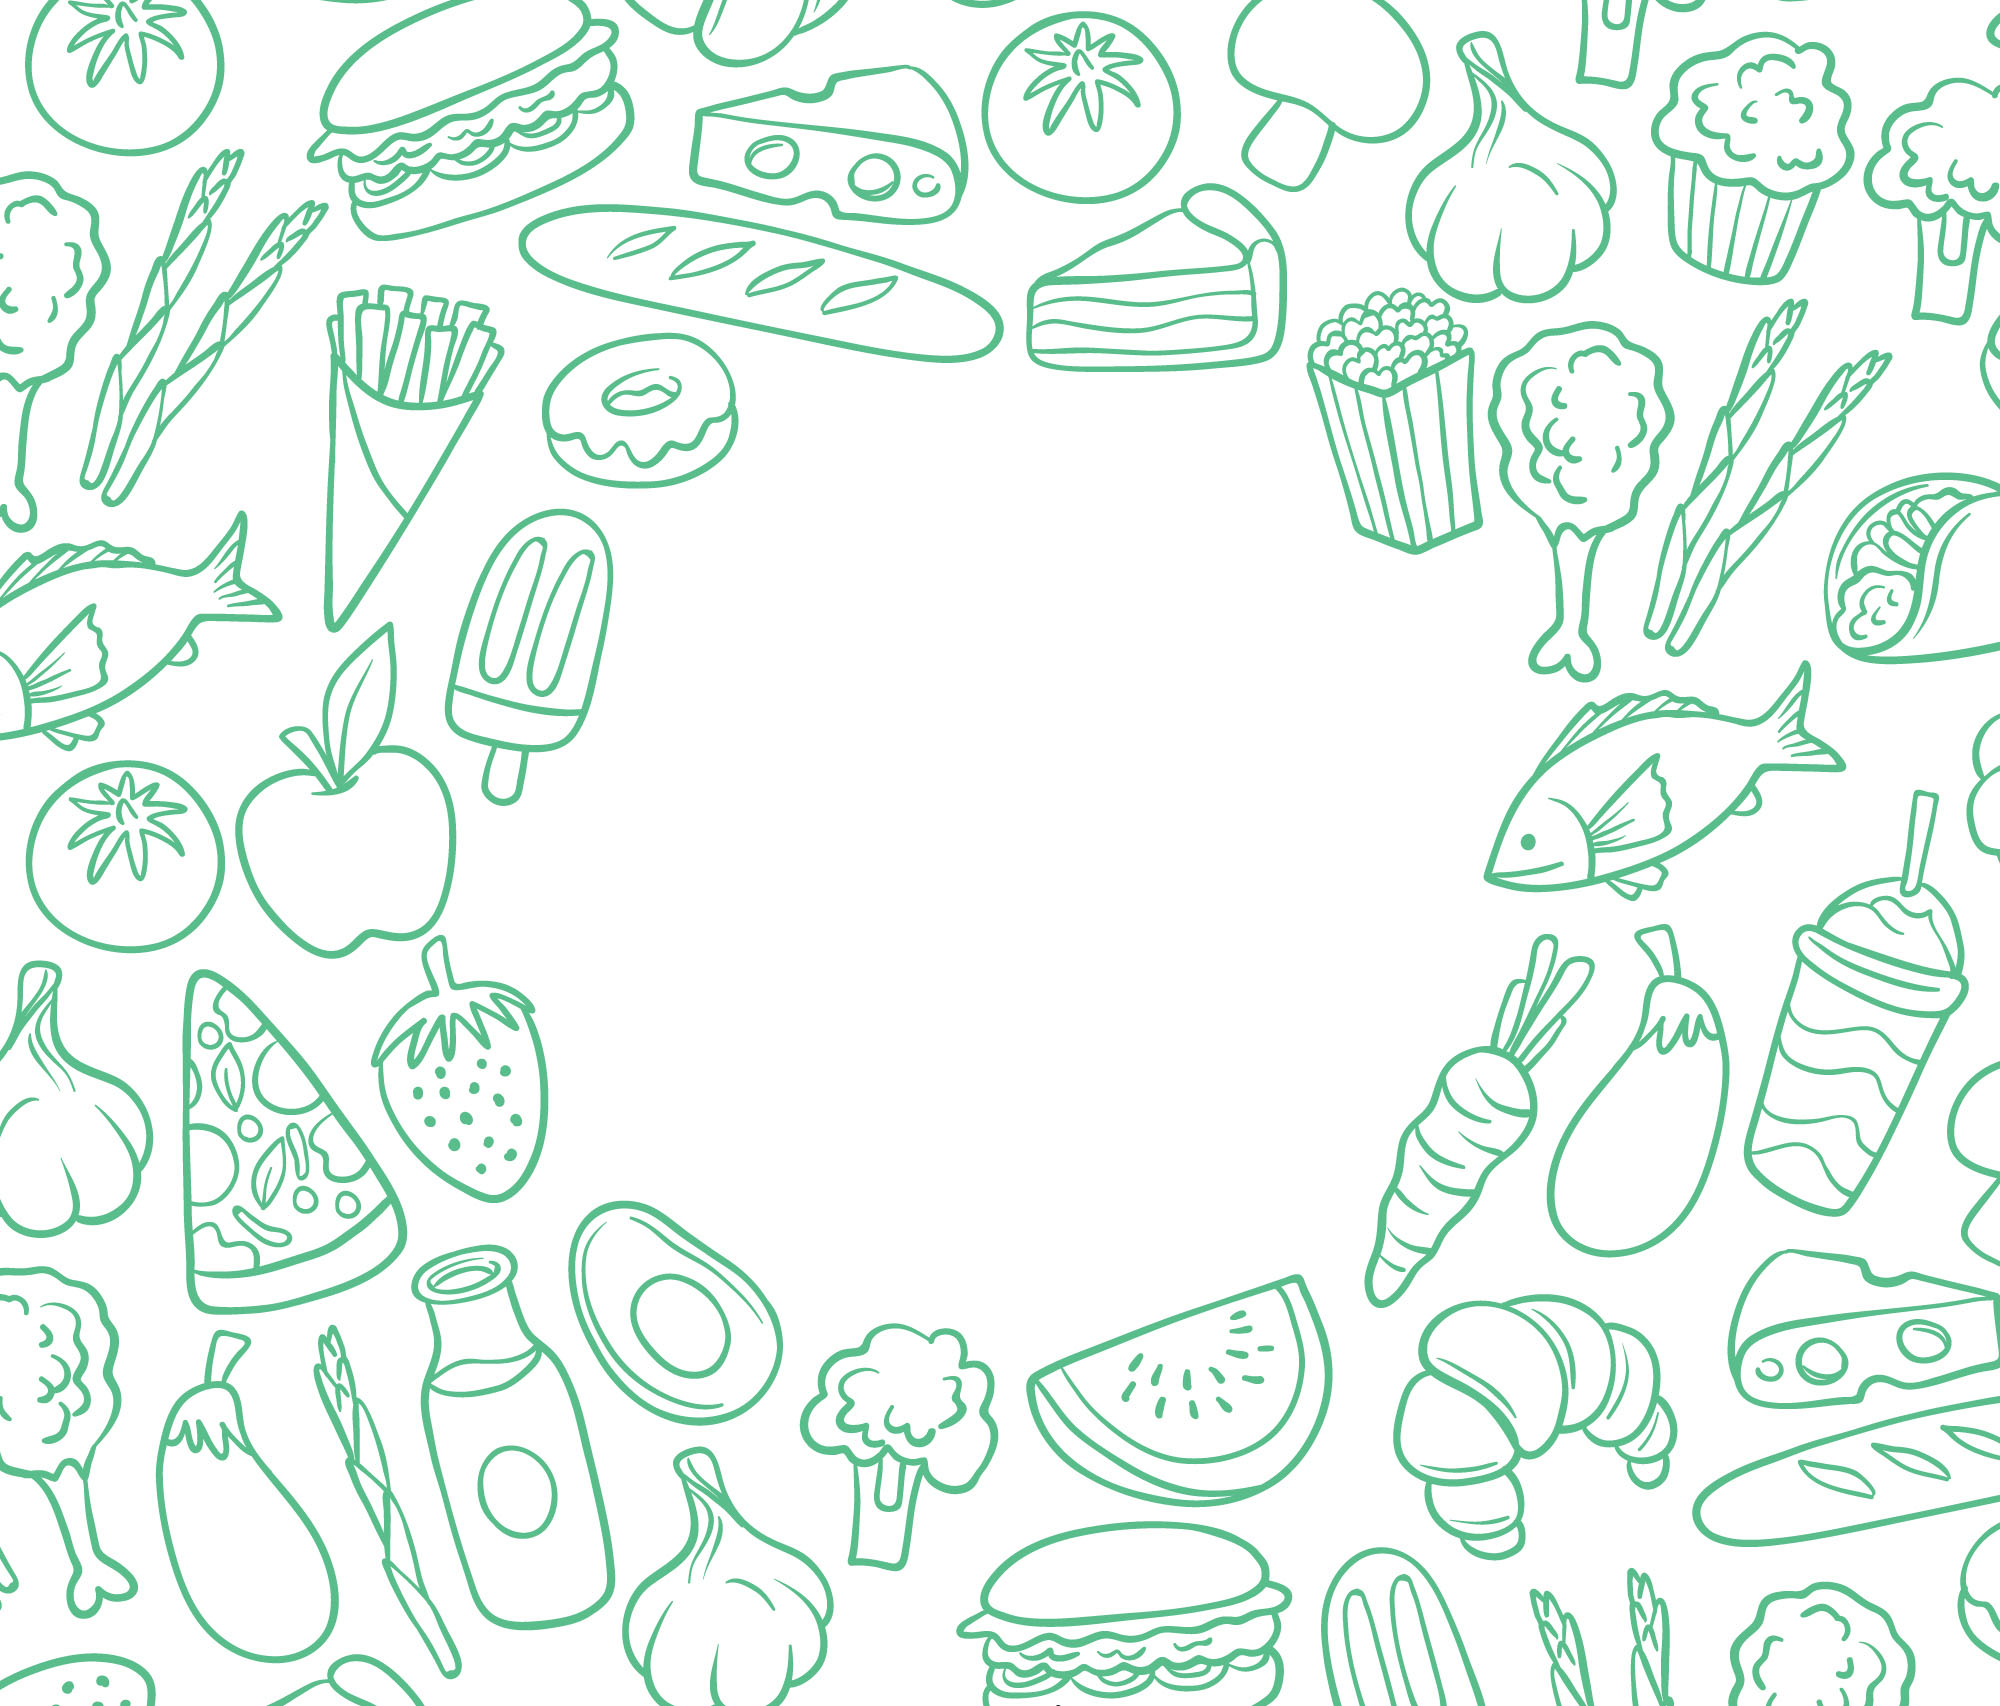
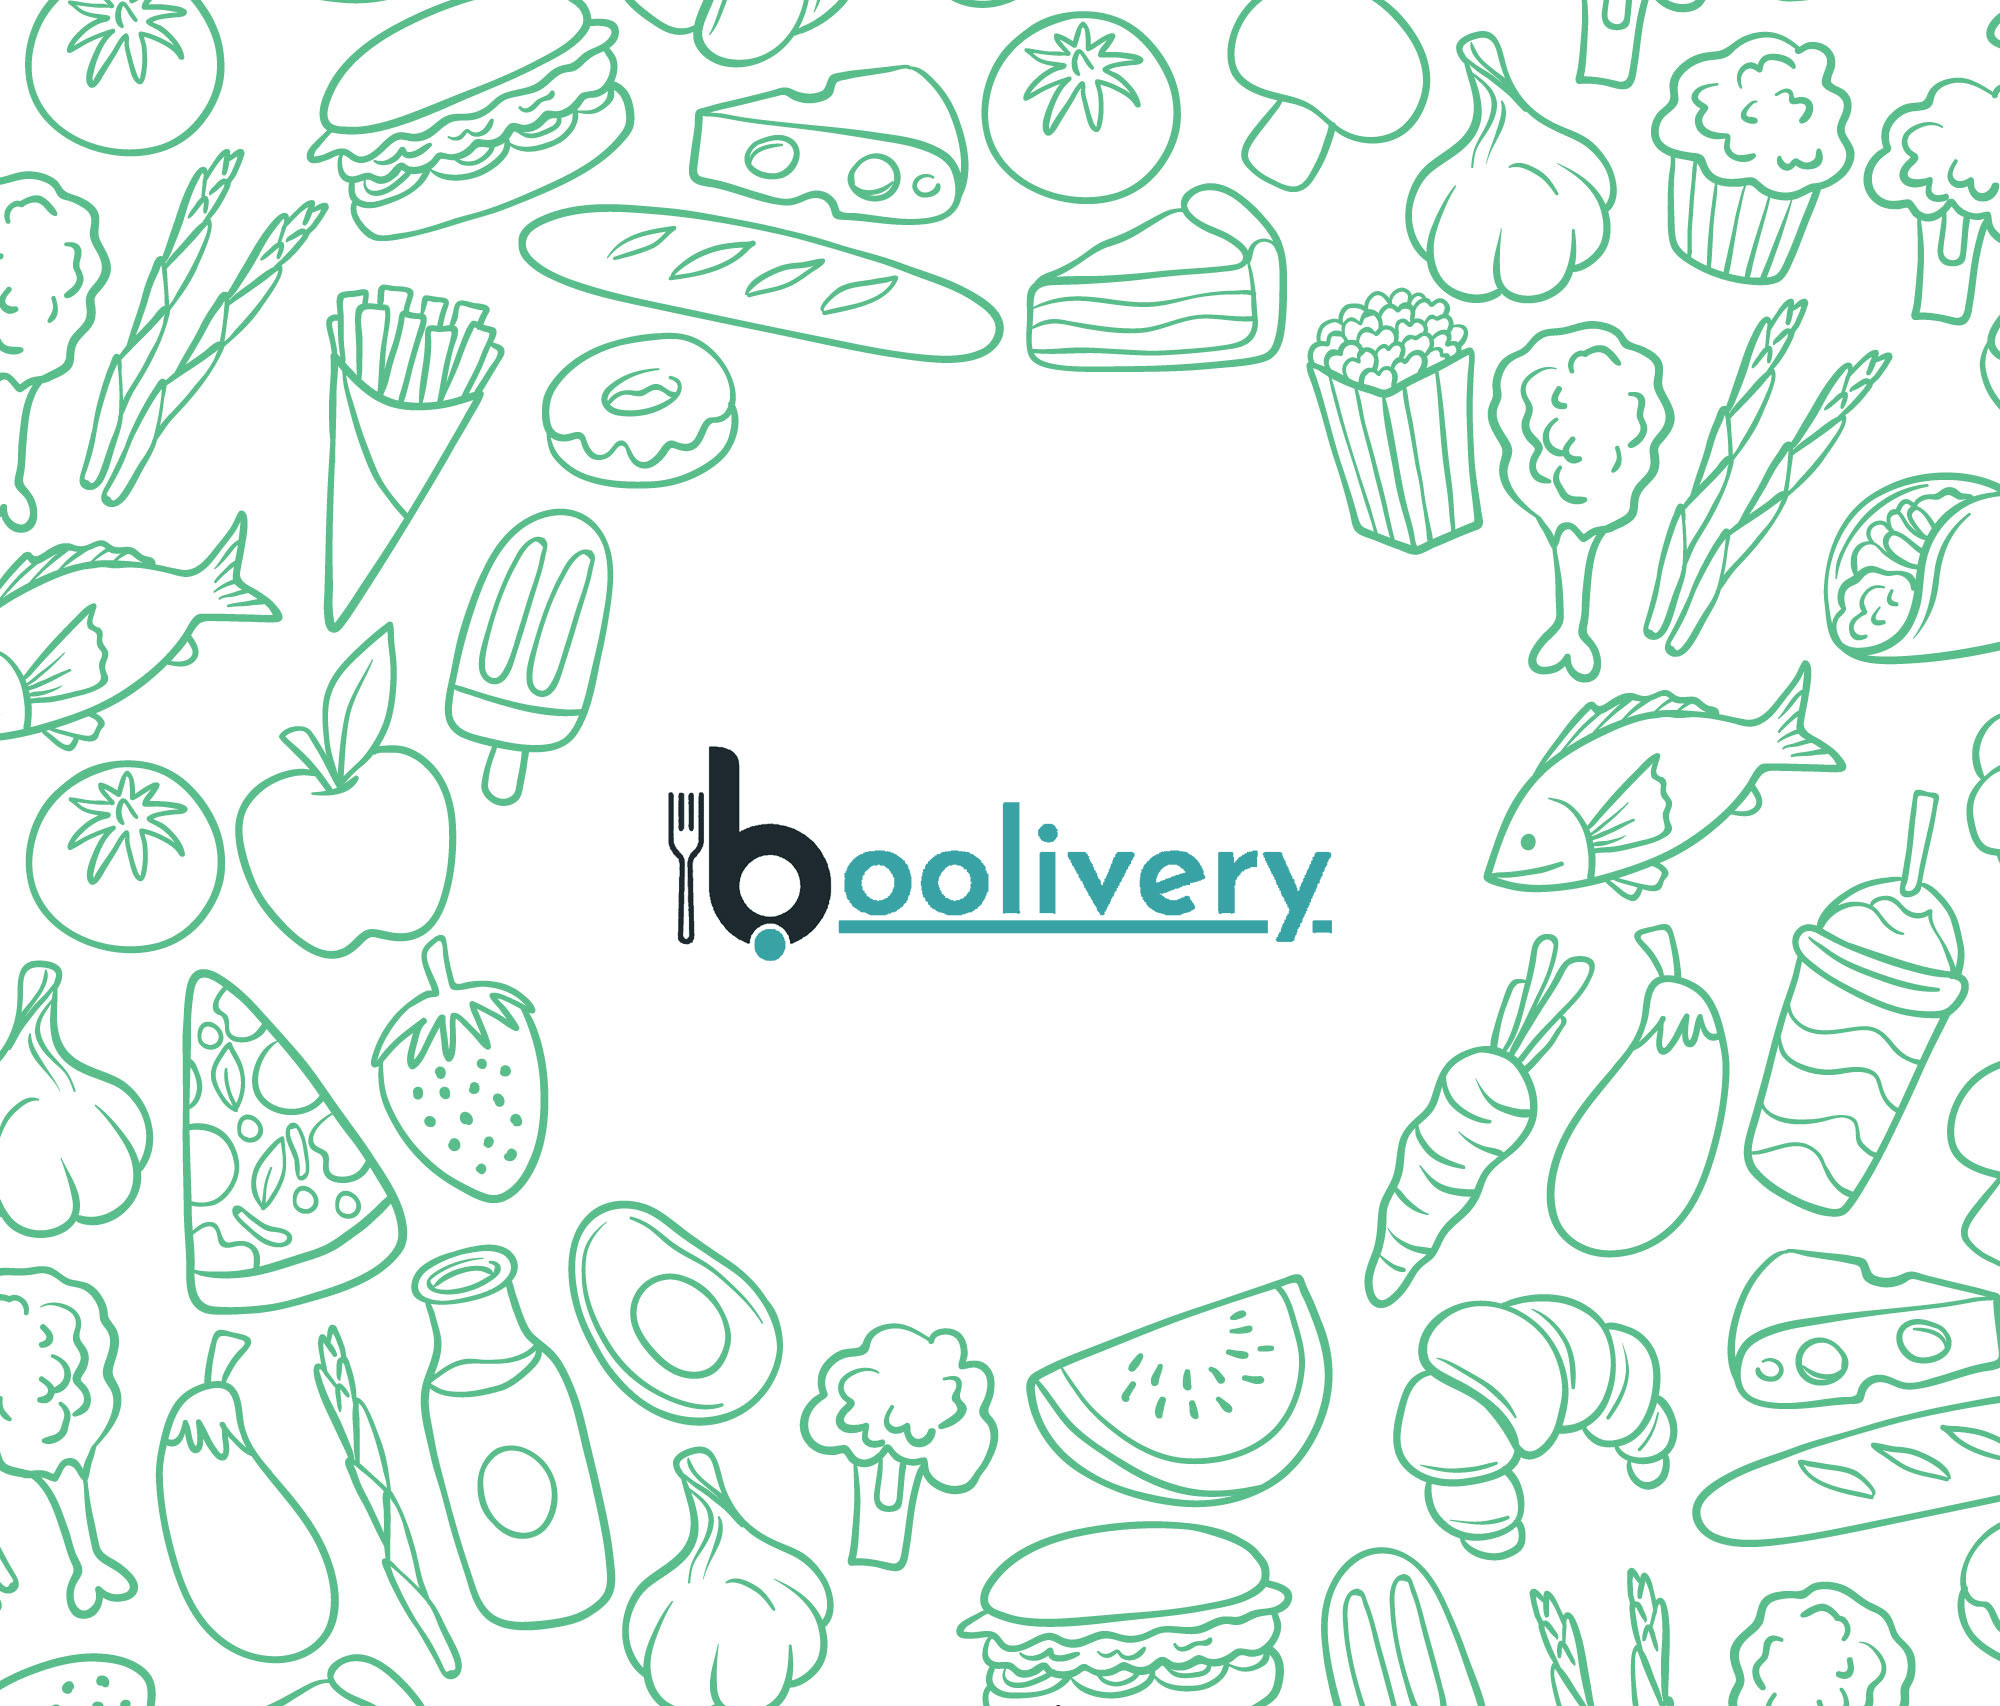
added parallax.jpg + skinned successPayment.vue + skinned index.blade.php

Changed region(s): [[0.31, 0.4349, 0.682, 0.5592]]

diff --git a/resources/js/pages/checkout/SuccessPayment.vue b/resources/js/pages/checkout/SuccessPayment.vue
@@ -8,7 +8,7 @@
             <p>oolivery</p>
         </a>
         <nav>
-            <ul> 
+            <ul>
                 <li>
                     <a href="/">Torna al Sito</a>
                 </li>
@@ -19,11 +19,13 @@
         <use xlink:href='img/wave.svg#wave-1hkxOo'></use>
       </svg> -->
       <!-- <svg xmlns="http://www.w3.org/2000/svg" viewBox="0 0 1440 320"><path fill="#f8fafc" fill-opacity="1" d="M0,224L60,218.7C120,213,240,203,360,181.3C480,160,600,128,720,144C840,160,960,224,1080,218.7C1200,213,1320,139,1380,101.3L1440,64L1440,320L1380,320C1320,320,1200,320,1080,320C960,320,840,320,720,320C600,320,480,320,360,320C240,320,120,320,60,320L0,320Z"></path></svg> -->
-      <svg id="wave" style="transform:rotate(0deg); transition: 0.3s" viewBox="0 0 1440 100" version="1.1" xmlns="http://www.w3.org/2000/svg"><defs><linearGradient id="sw-gradient-0" x1="0" x2="0" y1="1" y2="0"><stop stop-color="rgba(243, 106, 62, 1)" offset="0%"></stop><stop stop-color="rgba(255, 179, 11, 1)" offset="100%"></stop></linearGradient></defs><path style="transform:translate(0, 0px); opacity:1" fill="#f8fafc" d="M0,0L80,8.3C160,17,320,33,480,38.3C640,43,800,37,960,28.3C1120,20,1280,10,1440,20C1600,30,1760,60,1920,65C2080,70,2240,50,2400,36.7C2560,23,2720,17,2880,20C3040,23,3200,37,3360,45C3520,53,3680,57,3840,58.3C4000,60,4160,60,4320,53.3C4480,47,4640,33,4800,36.7C4960,40,5120,60,5280,63.3C5440,67,5600,53,5760,50C5920,47,6080,53,6240,60C6400,67,6560,73,6720,71.7C6880,70,7040,60,7200,55C7360,50,7520,50,7680,41.7C7840,33,8000,17,8160,21.7C8320,27,8480,53,8640,68.3C8800,83,8960,87,9120,76.7C9280,67,9440,43,9600,28.3C9760,13,9920,7,10080,16.7C10240,27,10400,53,10560,68.3C10720,83,10880,87,11040,83.3C11200,80,11360,70,11440,65L11520,60L11520,100L11440,100C11360,100,11200,100,11040,100C10880,100,10720,100,10560,100C10400,100,10240,100,10080,100C9920,100,9760,100,9600,100C9440,100,9280,100,9120,100C8960,100,8800,100,8640,100C8480,100,8320,100,8160,100C8000,100,7840,100,7680,100C7520,100,7360,100,7200,100C7040,100,6880,100,6720,100C6560,100,6400,100,6240,100C6080,100,5920,100,5760,100C5600,100,5440,100,5280,100C5120,100,4960,100,4800,100C4640,100,4480,100,4320,100C4160,100,4000,100,3840,100C3680,100,3520,100,3360,100C3200,100,3040,100,2880,100C2720,100,2560,100,2400,100C2240,100,2080,100,1920,100C1760,100,1600,100,1440,100C1280,100,1120,100,960,100C800,100,640,100,480,100C320,100,160,100,80,100L0,100Z"></path></svg>
+      <svg id="wave" style="transform:rotate(0deg); transition: 0.3s" viewBox="0 0 1440 100" version="1.1" xmlns="http://www.w3.org/2000/svg"><defs><linearGradient id="sw-gradient-0" x1="0" x2="0" y1="1" y2="0"><stop stop-color="rgba(243, 106, 62, 1)" offset="0%"></stop><stop stop-color="rgba(255, 179, 11, 1)" offset="100%"></stop></linearGradient></defs><path style="transform:translate(0, 0px); opacity:1" fill="#ffffff" d="M0,0L80,8.3C160,17,320,33,480,38.3C640,43,800,37,960,28.3C1120,20,1280,10,1440,20C1600,30,1760,60,1920,65C2080,70,2240,50,2400,36.7C2560,23,2720,17,2880,20C3040,23,3200,37,3360,45C3520,53,3680,57,3840,58.3C4000,60,4160,60,4320,53.3C4480,47,4640,33,4800,36.7C4960,40,5120,60,5280,63.3C5440,67,5600,53,5760,50C5920,47,6080,53,6240,60C6400,67,6560,73,6720,71.7C6880,70,7040,60,7200,55C7360,50,7520,50,7680,41.7C7840,33,8000,17,8160,21.7C8320,27,8480,53,8640,68.3C8800,83,8960,87,9120,76.7C9280,67,9440,43,9600,28.3C9760,13,9920,7,10080,16.7C10240,27,10400,53,10560,68.3C10720,83,10880,87,11040,83.3C11200,80,11360,70,11440,65L11520,60L11520,100L11440,100C11360,100,11200,100,11040,100C10880,100,10720,100,10560,100C10400,100,10240,100,10080,100C9920,100,9760,100,9600,100C9440,100,9280,100,9120,100C8960,100,8800,100,8640,100C8480,100,8320,100,8160,100C8000,100,7840,100,7680,100C7520,100,7360,100,7200,100C7040,100,6880,100,6720,100C6560,100,6400,100,6240,100C6080,100,5920,100,5760,100C5600,100,5440,100,5280,100C5120,100,4960,100,4800,100C4640,100,4480,100,4320,100C4160,100,4000,100,3840,100C3680,100,3520,100,3360,100C3200,100,3040,100,2880,100C2720,100,2560,100,2400,100C2240,100,2080,100,1920,100C1760,100,1600,100,1440,100C1280,100,1120,100,960,100C800,100,640,100,480,100C320,100,160,100,80,100L0,100Z"></path></svg>
     </div>
 
     <div class="thank-you">
-        <h1>Grazie per averci scelto</h1>
+        <h1 class="mb-5">Grazie per averci scelto</h1>
+        <h2 class="mt-5">Il tuo ordine sta arrivando!!</h2>
+        <!-- <img src="https://img.freepik.com/free-vector/delivery-service-with-masks-concept_23-2148497067.jpg?w=2000&t=st=1657180383~exp=1657180983~hmac=41669774a73cf64eaa6bb0a4f3c2a642a881fd3cc87ad071819e8a9f7febfb5f" alt=""> -->
     </div>
 
   </div>
@@ -40,12 +42,13 @@ export default {
 
 #success-payment{
 
+    background-color: white;
     .header{
         background: $dark-color;
         .wave{
           width: 100%;
           height: 20px;
-          color: #f8fafc;
+          color: white;
         }
         .container{
             color: $brand-color;
@@ -87,13 +90,20 @@ export default {
                     }
                 }
             }
-    
+
         }
     }
+
 
     .thank-you{
         margin-top: 1rem;
         text-align: center;
+        background-image: url("https://img.freepik.com/free-vector/delivery-service-with-masks-concept_23-2148497067.jpg?w=2000&t=st=1657180383~exp=1657180983~hmac=41669774a73cf64eaa6bb0a4f3c2a642a881fd3cc87ad071819e8a9f7febfb5f");
+        height: calc(100vh - 187px);
+        h1{
+            font-size: 50px;
+            color: $secondary-color;
+        }
     }
 
 }

diff --git a/resources/views/user/restaurant/index.blade.php b/resources/views/user/restaurant/index.blade.php
@@ -4,7 +4,9 @@
     <div class="bo-container">
 
         <h1 class="welcome-msg">Benvenuto {{ $user->name }}</h1>
-        @if ($restaurant)
+
+        <div>
+            @if ($restaurant)
             <div class="info-restaurant-container">
                 <div class="bo-restaurant-index">
                     <h2>{{ $restaurant->name }}</h2>
@@ -44,18 +46,17 @@
 
 
                 {{-- <img src="{{ asset('/storage/' . $restaurant[$id - 1]->logo) }}" alt="logo" class="w-25"> --}}
-            @else
-                <h2>Non hai ancora aggiunto un ristorante rimedia subito!</h2>
-                <p>Non puoi avere accesso alla dashboard fino a quando non lo crei</p>
+                @else
+                    <h2 class="mt-5">Non hai ancora aggiunto un ristorante rimedia subito!</h2>
+                    <p>Non puoi avere accesso alla dashboard fino a quando non lo crei</p>
 
 
-                <a href="{{ route('user.restaurant.create') }}"
-                    class="btn btn-outline-secondary text-decoration-none">crea</a>
-            @endif
+                    <a href="{{ route('user.restaurant.create') }}"
+                        class="btn btn-outline-secondary text-decoration-none">crea</a>
+                @endif
 
             </div>
-
-
+        </div>
     </div>
 @endsection
 

diff --git a/app/Providers/AppServiceProvider.php b/app/Providers/AppServiceProvider.php
@@ -31,18 +31,18 @@ class AppServiceProvider extends ServiceProvider
                 [
 
                     "environment" => "sandbox",
-                    "merchantId" => "zf5jh2r682tx82mq",
-                    "publicKey" => "t6zcryh5ttftftv8",
-                    "privateKey" => "87e5fe35df8b56db67f5fd7dfd9e32b4"
-        
+                    "merchantId" => "r59zhcpbv3j9b4pd",
+                    "publicKey" => "n6zxxssk5cfq8zqy",
+                    "privateKey" => "15865aa9f38028430003d28a6c4e7ba4"
+
                 ]
-                
+
                 );
     });
 
     }
     }
-    
 
-    
+
+
 
